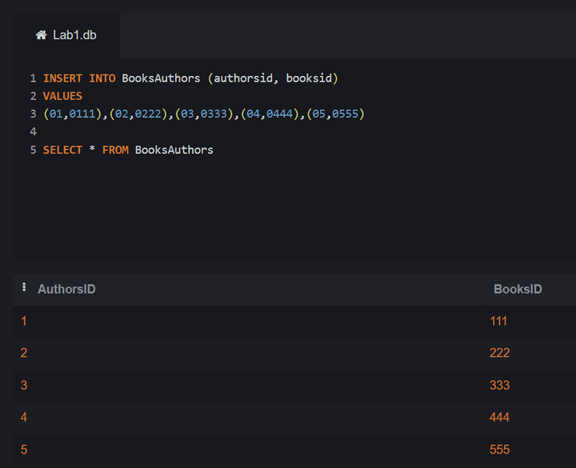
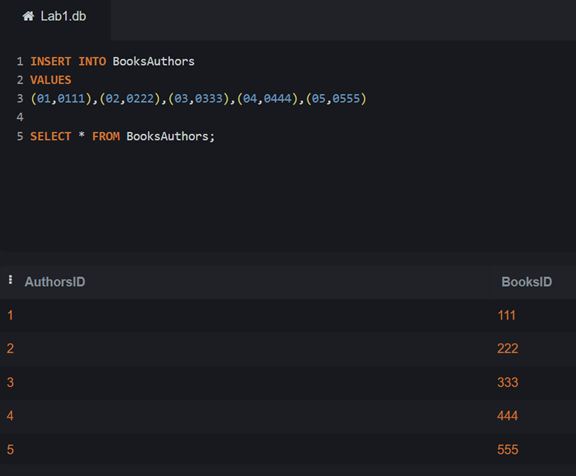
h

diff --git a/README.md b/README.md
@@ -1,8 +1,8 @@
 # SQL-Lab1
 - Create a table "BooksAuthors" containing two fields (AuthorId, BookId)
-<img src= "P1.png"/>
+<img src= "p1.png"/>
 - Insert at least 5 records into the BooksAuthors table.
-<img src= "P1.png"/>
+<img src= "P2.png"/>
 - Write a statement that will select the Country column from the Authors table.
 <img src= "P3.png"/>
 - Select all the different values from the Country column in the Authors table.
